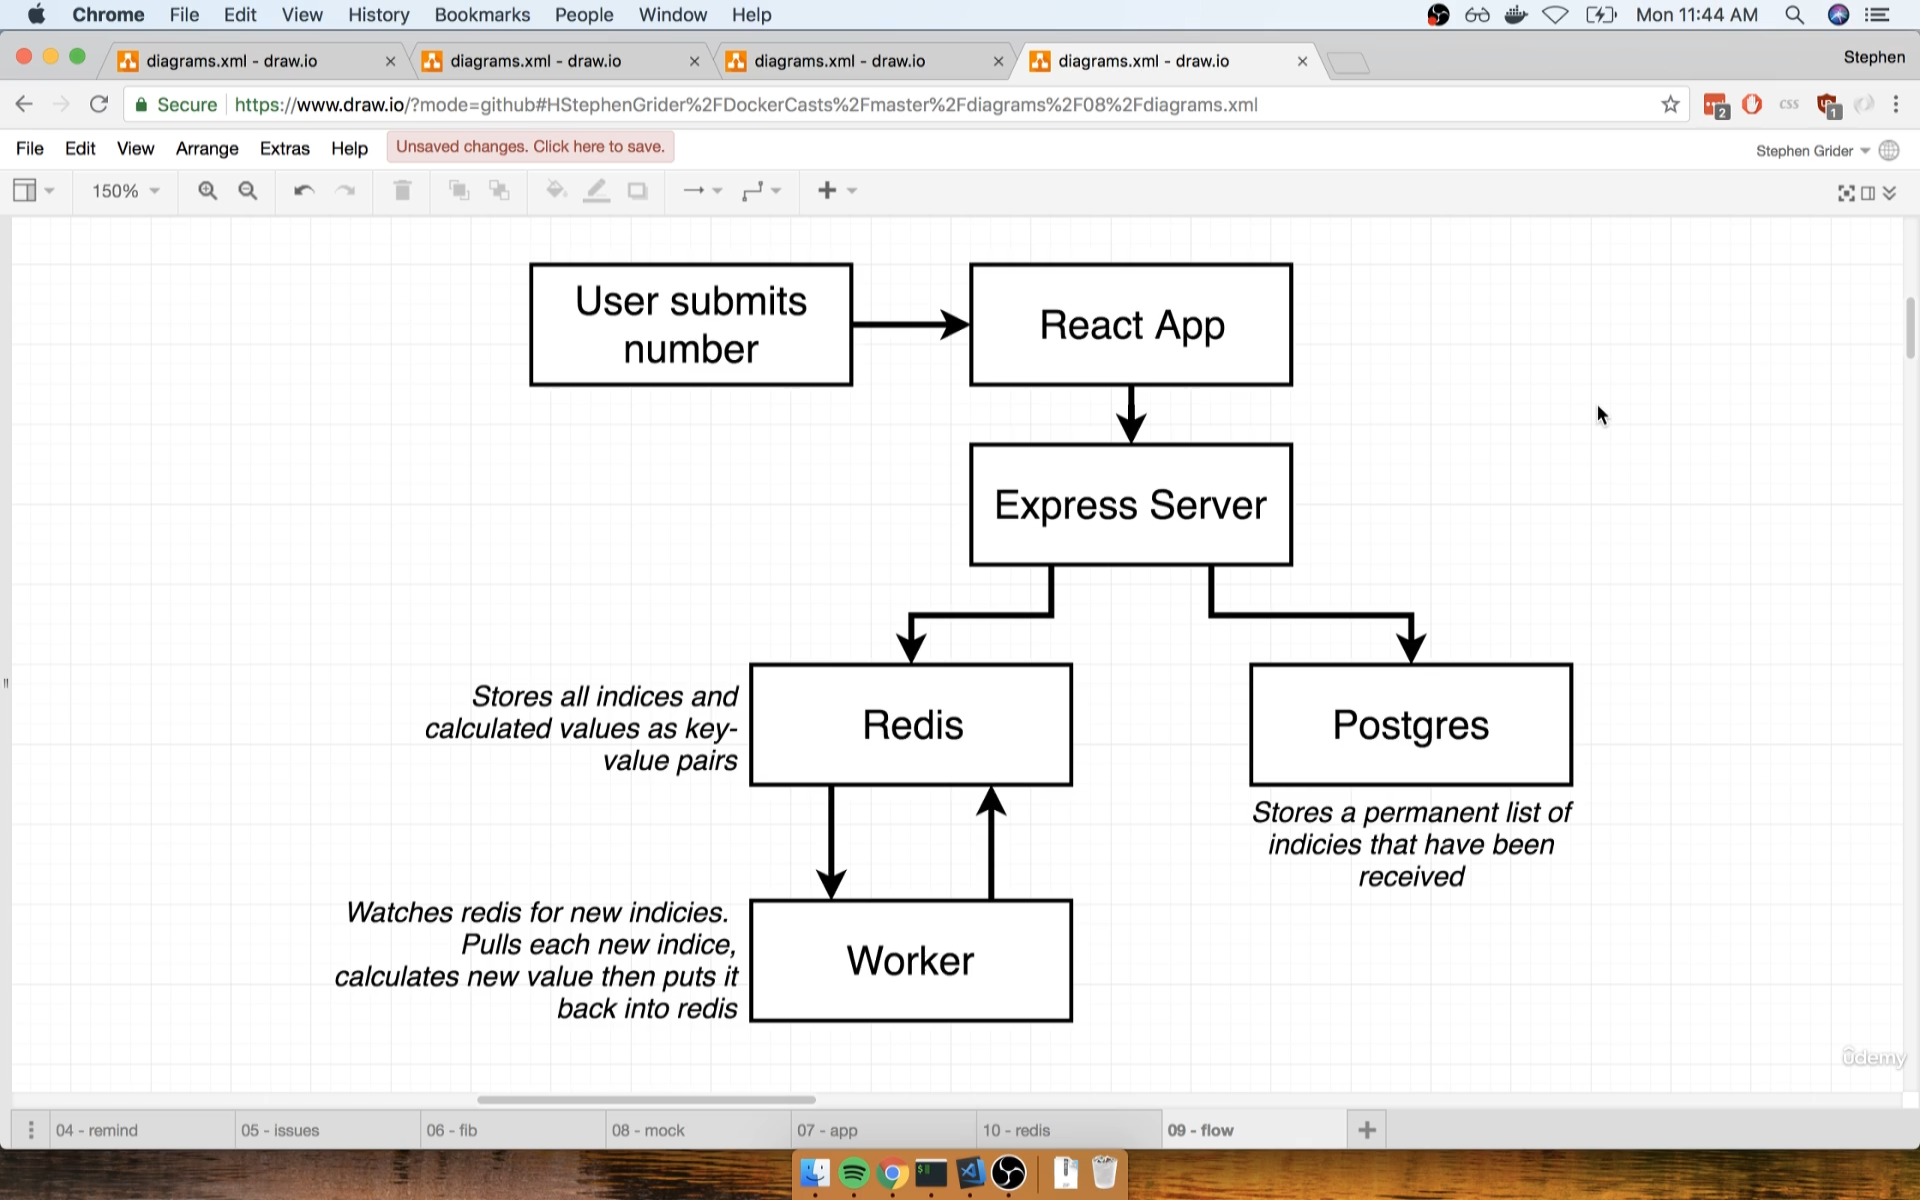
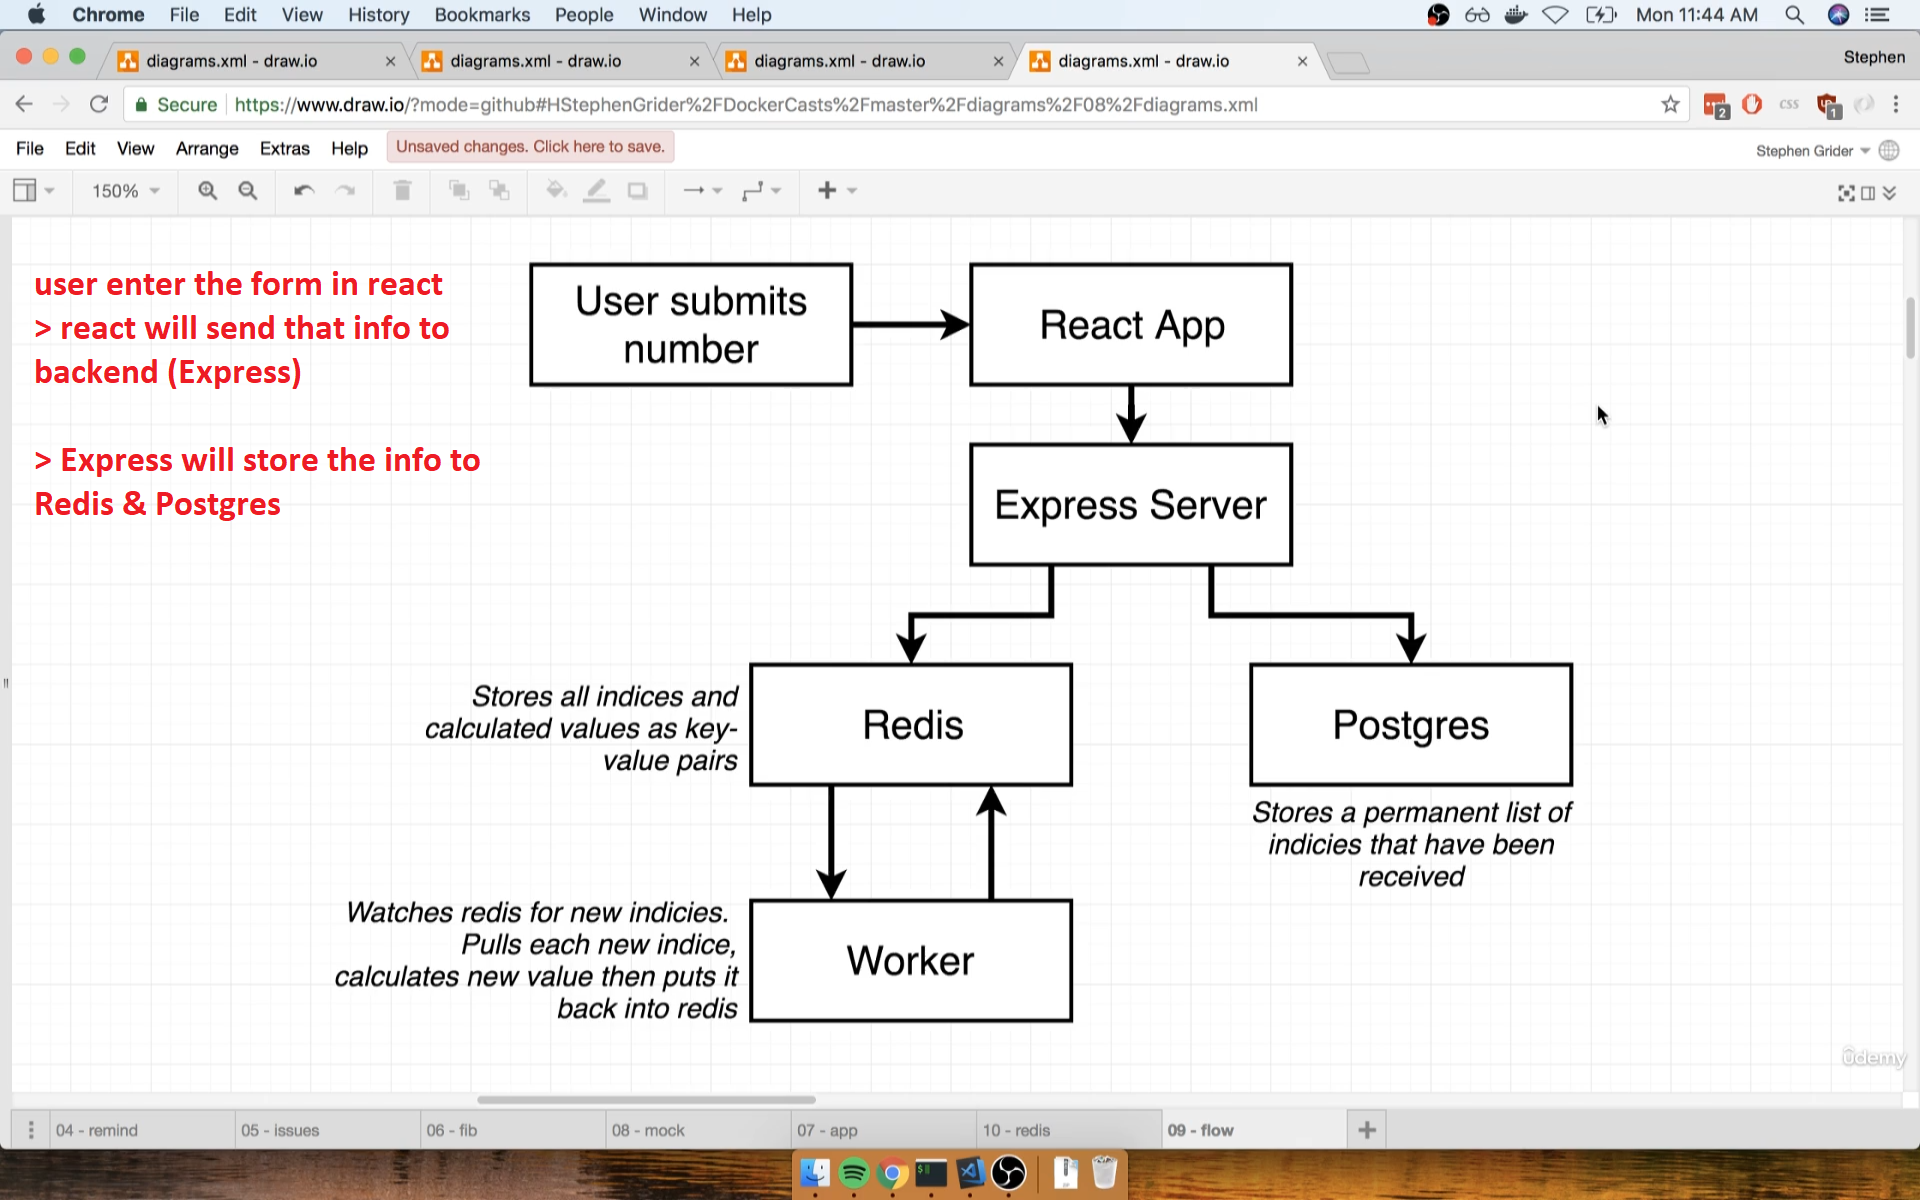
More Express API Setup P1

Changed region(s): [[0.0, 0.2158, 0.25, 0.3392], [0.0, 0.37, 0.25, 0.4317]]

diff --git a/playground/server/index.js b/playground/server/index.js
@@ -1,3 +1,12 @@
+/*
+  More Express API Setup P1
+  - check app-architecture picture to understand
+
+  - now, we want to make sure express will store data to redis 
+    > below
+
+*/
+
 const keys = require('./keys')
 
 const express = require('express')
@@ -9,7 +18,6 @@ const app = express()
 app.use(cors())
 app.use(bodyParser.json())
 
-// Postgres Client Setup
 const { Pool } = require('pg')
 const pgClient = new Pool({
   user: keys.pgUser,
@@ -24,3 +32,15 @@ pgClient.on('connect', (client) => {
     .query('CREATE TABLE IF NOT EXISTS values (number INT)')
     .catch((err) => console.error(err))
 })
+
+///////////////////////////////////////////
+const redis = require('redis')
+
+const redisClient = redis.createClient({
+  host: keys.redisHost,
+  port: keys.redisPort,
+  retry_strategy: () => 1000,
+})
+
+// *** If you need to send regular commands to Redis while in subscriber mode, just open another connection with a new client (use client.duplicate() to quickly duplicate an existing client).
+const redisPublisher = redisClient.duplicate()

diff --git a/playground/worker/index.js b/playground/worker/index.js
@@ -1,8 +1,3 @@
-/*
-  Connecting to Postgres
-  - create server/index.js
-*/
-
 const keys = require('./keys')
 const redis = require('redis')
 
